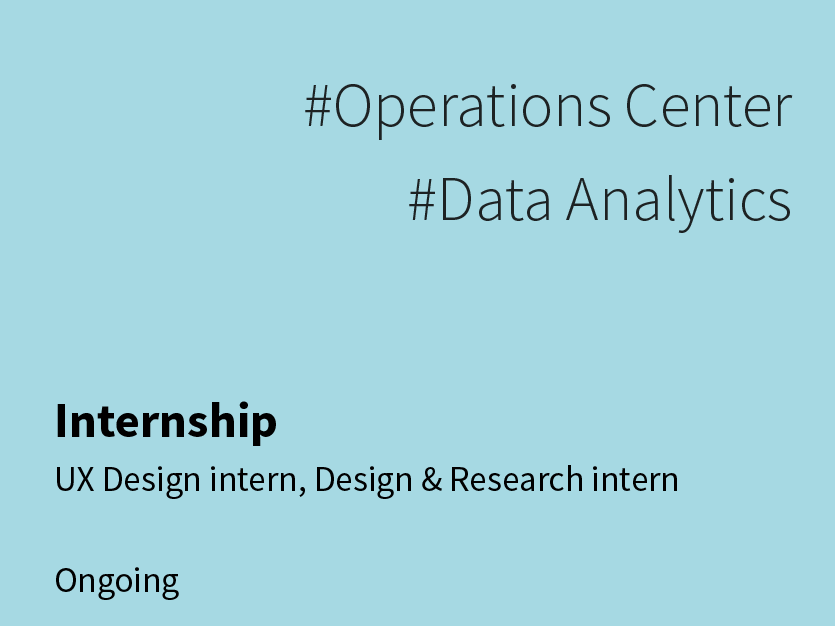
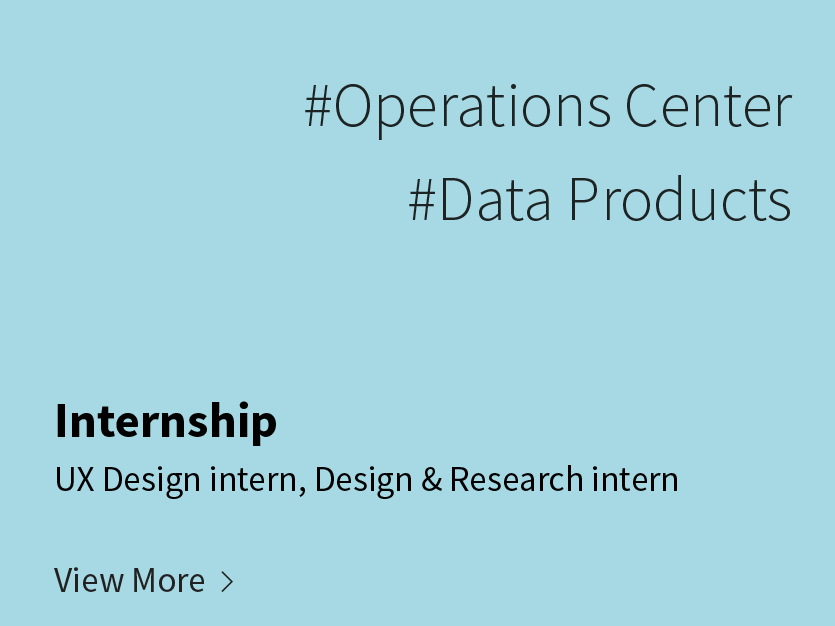
Added internship description page

Changed region(s): [[0.685, 0.2732, 0.9341, 0.3642], [0.0623, 0.9105, 0.2802, 0.9712]]

diff --git a/index.html b/index.html
@@ -67,7 +67,8 @@
 
           <div class="three-to-two">
             <h2>
-              A passionate <mark>user experience designer</mark> and a <mark>team player</mark> who brings technologies from the lab to
+              A passionate <mark>user experience designer</mark> and a
+              <mark>team player</mark> who brings technologies from the lab to
               everyday lives, to build a desirable future for all.
             </h2>
             <img src="./assets/img/index/flavor.png" alt="" />
@@ -117,10 +118,10 @@
 
         <div class="two-selected clearf">
           <div class="col-5 clearf">
-            <a class="title">
+            <a class="title" href="./projects/internship.html">
               <img src="./assets/img/index/cover-05.png" alt="" />
             </a>
-            <a class="mask">
+            <a class="mask" href="./projects/internship.html">
               <img src="./assets/img/index/mask-05.png" alt="" />
             </a>
           </div>

diff --git a/projects/Internship.html b/projects/Internship.html
@@ -171,6 +171,12 @@
             ultimately create desirable, feasible, and viable products and
             services.
           </h3>
+
+          <div class="last-next">
+            <a href="wasa.html">
+              <img src="../img/post/last.svg" alt="" width="70"
+            /></a>
+          </div>
         </div>
       </div>
     </div>
